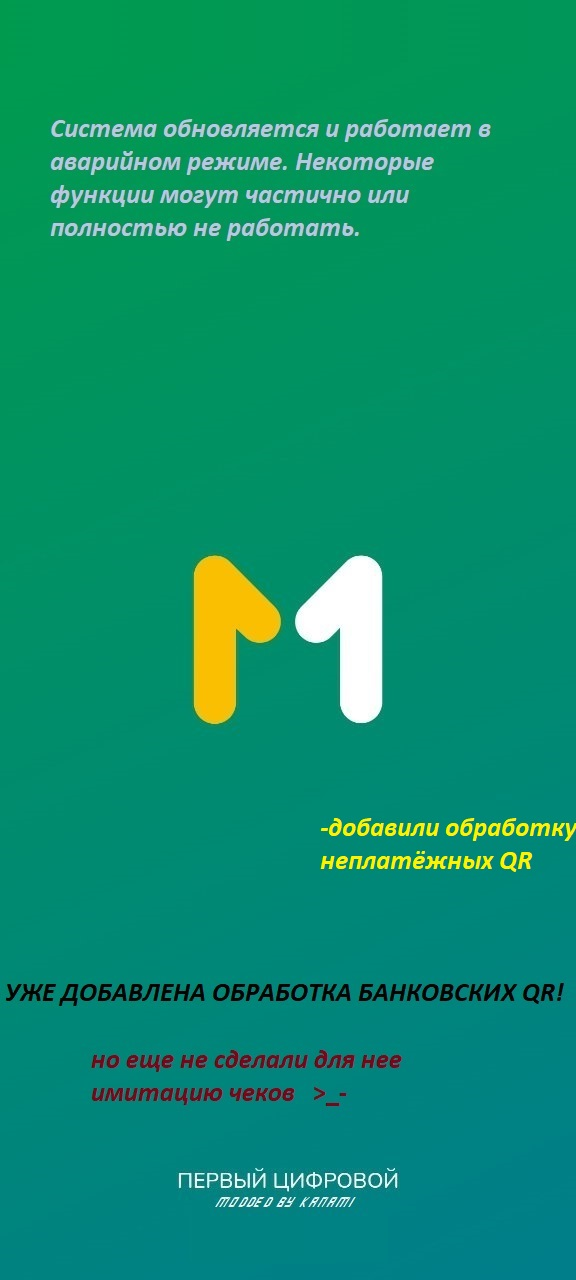
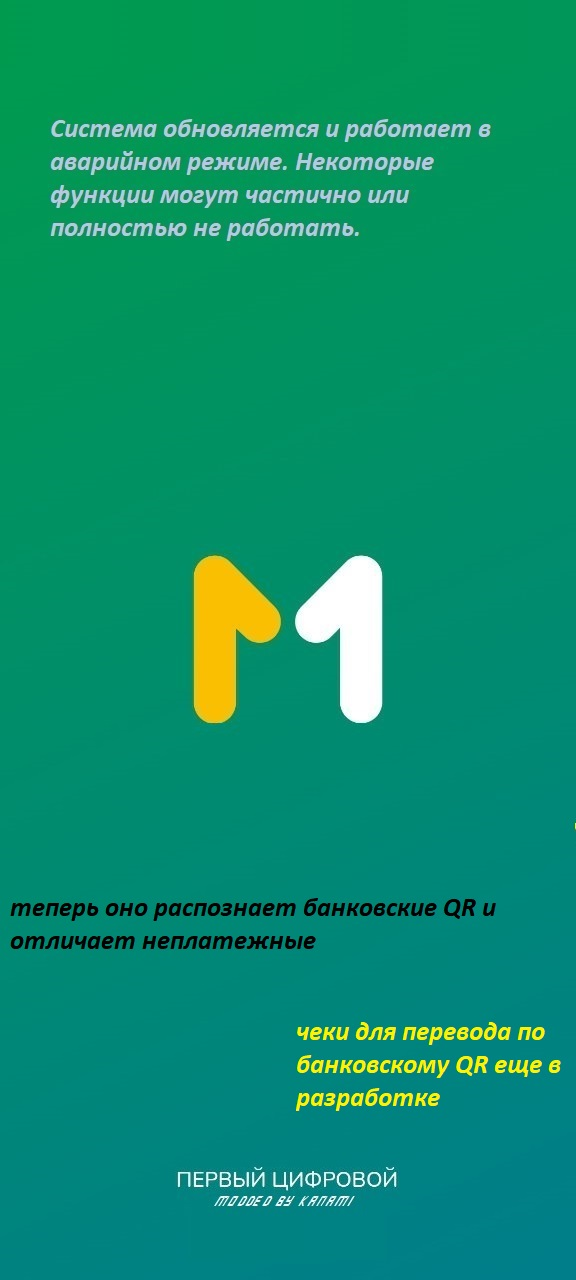
Added screens for bank credentials
But we need to input amount of money to be paid and need to cast the parsed credentils into output screen

Changed region(s): [[0.0, 0.625, 1.0, 0.875], [0.3125, 0.9062, 0.6875, 0.9688]]

diff --git a/index.html b/index.html
@@ -30,8 +30,8 @@
     </div>
 
     <!-- Экран 2: результат -->
-    <div id="screen2" class="screen">
-		<img src="history.jpg" class="screen2-bg">
+    <div id="TULPARsuccess" class="screen">
+		<img src="history.jpg" class="TULPARsuccess-bg">
 	    <div class="history-box">
 			<img src="success.png" alt="Успешно" class="success-image"> <!--фон с зеленой галочкой-->
 			<div class="dotted-line">	<!--пунктирный разделитель-->
@@ -63,6 +63,150 @@
 			<p class="final">Оплата услуг. Получатель: Оплата по QR Госуслуги. <span id=auto></span>/TULPAR/17.00 <span id=hexid></span> Сумма 17.00 KGS</p>	
 		</div>
     </div>
+	
+	<div id="odengi" class="screen">
+	<img src="history.jpg" class="TULPARsuccess-bg">
+	    <div class="history-box">
+			<img src="success.png" alt="Успешно" class="success-image"> <!--фон с зеленой галочкой-->
+			<div class="dotted-line">	<!--пунктирный разделитель-->
+			  <div></div><div></div><div></div><div></div>
+			  <div></div><div></div><div></div><div></div>
+			  <div></div><div></div><div></div><div></div>
+			  <div></div><div></div><div></div><div></div>
+			</div>
+
+			<div class=table-container>
+			
+			<table class="custom-table">
+			  <tbody>
+				<tr><td>Имя получателя</td><td>ОПЛАТА ПО ЕДИНОМУ QR (КЭШАУТ) МПЦ</td></tr>
+				<tr>
+				  <td style="white-space: normal;">Оплачено со счета</td>
+				  <td id="billnum" style="white-space: nowrap; width: 1%;"></td>	<!--небольшие извращения чтобы текст влезал в одну строку-->
+				</tr>
+
+				<tr><td>Дата операции</td><td id=datetime></td></tr>
+				<tr><td>Номер квитанции</td><td id=receipt></td></tr>
+				<tr><td>Поставщик услуги</td><td id=postavshik_2></td></tr>
+				<tr><td>Реквизит</td><td id=rekvizit_2></td></tr>
+				<tr><td>Комментарий</td><td id=comment_2></td></tr>
+				<tr><td>Получатель</td><td id=poluchatel_2></td></tr>
+				<tr><td>Идентификатор транзакции</td><td id=ID_2></td></tr>
+			  </tbody>
+			</table>
+			</div>
+			
+			<div class="dotted-line">
+			  <div></div><div></div><div></div><div></div>
+			  <div></div><div></div><div></div><div></div>
+			  <div></div><div></div><div></div><div></div>
+			  <div></div><div></div><div></div><div></div>
+			</div>
+			<p class="final">Оплата услуг. Получатель: Перевод по QR. 
+			<span id=rekv_1></span>
+			/
+			<span id=usl_1></span>
+			/
+			<span id=amount></span> <span id=hexid></span> 
+			Сумма <span id=amountAgain></span> KGS</p>	
+		</div>
+    </div>
+	
+
+
+	<div id="simbank" class="screen">
+	<img src="history.jpg" class="TULPARsuccess-bg">
+	    <div class="history-box">
+			<img src="success.png" alt="Успешно" class="success-image"> <!--фон с зеленой галочкой-->
+			<div class="dotted-line">	<!--пунктирный разделитель-->
+			  <div></div><div></div><div></div><div></div>
+			  <div></div><div></div><div></div><div></div>
+			  <div></div><div></div><div></div><div></div>
+			  <div></div><div></div><div></div><div></div>
+			</div>
+
+			<div class=table-container>
+
+			<table class="custom-table">
+			  <tbody>
+				<tr><td>Имя получателя</td><td>ОПЛАТА ПО ЕДИНОМУ QR (КЭШАУТ) МПЦ</td></tr>
+				<tr>
+				  <td style="white-space: normal;">Оплачено со счета</td>
+				  <td id="billnum" style="white-space: nowrap; width: 1%;"></td>	<!--небольшие извращения чтобы текст влезал в одну строку-->
+				</tr>
+
+				<tr><td>Дата операции</td><td id=datetime></td></tr>
+				<tr><td>Номер квитанции</td><td id=receipt></td></tr>
+				<tr><td>Поставщик услуги</td><td id=postavshik_2></td></tr>
+				<tr><td>Реквизит</td><td id=rekvizit_2></td></tr>
+				<tr><td>Получатель</td><td id=poluchatel_2></td></tr>
+				<tr><td>Идентификатор транзакции</td><td id=ID_2></td></tr>
+			  </tbody>
+			</table>
+			</div>
+			
+			<div class="dotted-line">
+			  <div></div><div></div><div></div><div></div>
+			  <div></div><div></div><div></div><div></div>
+			  <div></div><div></div><div></div><div></div>
+			  <div></div><div></div><div></div><div></div>
+			</div>
+			<p class="final">Оплата услуг. Получатель: Перевод по QR. 
+			<span id=rekv_1></span>
+			/
+			<span id=usl_1></span>
+			/
+			<span id=amount></span> <span id=hexid></span> 
+			Сумма <span id=amountAgain></span> KGS</p>	
+		</div>
+    </div>
+	
+	
+	
+	
+	<div id="mbank" class="screen">
+	<img src="history.jpg" class="TULPARsuccess-bg">
+	    <div class="history-box">
+			<img src="success.png" alt="Успешно" class="success-image"> <!--фон с зеленой галочкой-->
+			<div class="dotted-line">	<!--пунктирный разделитель-->
+			  <div></div><div></div><div></div><div></div>
+			  <div></div><div></div><div></div><div></div>
+			  <div></div><div></div><div></div><div></div>
+			  <div></div><div></div><div></div><div></div>
+			</div>
+
+			<div class=table-container>
+
+			<table class="custom-table">
+			  <tbody>
+				<tr><td>Имя получателя</td><td id=usl_1></td></tr>
+				<tr>
+				  <td style="white-space: normal;">Оплачено со счета</td>
+				  <td id="billnum" style="white-space: nowrap; width: 1%;"></td>	<!--небольшие извращения чтобы текст влезал в одну строку-->
+				</tr>
+
+				<tr><td>Дата операции</td><td id=datetime></td></tr>
+				<tr><td>Номер квитанции</td><td id=receipt></td></tr>
+			  </tbody>
+			</table>
+			</div>
+			<div class="dotted-line">
+			  <div></div><div></div><div></div><div></div>
+			  <div></div><div></div><div></div><div></div>
+			  <div></div><div></div><div></div><div></div>
+			  <div></div><div></div><div></div><div></div>
+			</div>
+			<p class="final">Оплата услуг. Получатель: Перевод по QR. 
+			<span id=rekv_1></span>
+			/
+			<span id=usl_1></span>
+			/
+			<span id=amount></span> <span id=hexid></span> 
+			Сумма <span id=amountAgain></span> KGS</p>	
+		</div>
+    </div>
+
+	
 	<!-- Экран вывода несовмесимого QR -->
 	<div id="parseError" class="screen">
 		<img src="history.jpg" class="error-bg">

diff --git a/styles.css b/styles.css
@@ -60,13 +60,26 @@ body {
     object-fit: cover;
 }
 
-#screen2 {
+/* Общий контейнер */
+#TULPARsuccess,
+#odengi,
+#simbank,
+#mbank {
     background-color: black;
     position: relative;
     overflow: hidden;
+
+    display: flex;
+    justify-content: center;
+    align-items: center;
+    flex-direction: column;
 }
 
-#screen2 .screen2-bg {
+/* Фон */
+#TULPARsuccess .TULPARsuccess-bg,
+#odengi .TULPARsuccess-bg,
+#simbank .TULPARsuccess-bg,
+#mbank .TULPARsuccess-bg {
     position: absolute;
     top: 50%;
     left: 50%;
@@ -77,20 +90,15 @@ body {
     z-index: 0;
 }
 
-#screen2 > *:not(.screen2-bg) {
+/* Контент поверх фона */
+#TULPARsuccess > *:not(.TULPARsuccess-bg),
+#odengi > *:not(.TULPARsuccess-bg),
+#simbank > *:not(.TULPARsuccess-bg),
+#mbank > *:not(.TULPARsuccess-bg) {
     position: relative;
     z-index: 1;
 }
-#screen2 {
-    background-color: black;
-    position: relative;
-    overflow: hidden;
 
-    display: flex;
-    justify-content: center;
-    align-items: center;
-    flex-direction: column;
-}
 #parseError {
     background-color: black;
     position: relative;
@@ -115,24 +123,24 @@ body {
 .errMsgBox {
     display: flex;
     flex-direction: column;
-    align-items: flex-start; /* Выравнивание по левому краю */
+    align-items: flex-start;
     text-align: left;
-
     background-color: #131313;
-	color:#606060;	
+    color: #606060;
     border-radius: 20px;
-    height: 100px;
-    width: 250px;
+    height: 115px;
+    width: 280px;
     box-sizing: border-box;
-    padding: 15px;
+    padding: 15px 20px 20px 25px;
     position: relative;
     z-index: 2;
 }
 
+
 .ErrBtn {
     position: absolute;
-    bottom: 10px;
-    right: 15px;
+    bottom: 15px;
+    right: 20px;
 
     font-size: 14px;
     color: #088840;
@@ -217,6 +225,17 @@ body {
   text-align: right;   /* Правый столбец - по правому краю */
 }
 
+.table-container {
+  max-height: 40vh;
+  overflow-y: auto;
+  width: 100%;
+  -ms-overflow-style: none;  /* IE и Edge */
+  scrollbar-width: none;  /* Firefox */
+}
+
+.table-container::-webkit-scrollbar {
+  display: none;
+}
 
 .final {
 	text-align: left;

diff --git a/parseQRCode.js b/parseQRCode.js
@@ -37,7 +37,7 @@ function parseQRCode(decodedText) {
 
         const el = document.getElementById("auto");   //прописываем код транспорта в чек
         if (el) el.textContent = transportNumber + "/" + transportNumber; //если мы его туда прописали, то дублируем его через слэш (чтоб по канону смотрелось)
-		showScreen('screen2');
+		showScreen('TULPARsuccess');
 	return;
 
     } else {
@@ -116,9 +116,25 @@ function parseQRCode(decodedText) {
         let comment_2 = chelovek;
         let poluchatel_2 = chelovek;
         let ID_2 = identifikatorTranzaksii;
+		
 
         console.log(codeProvider, rekvizit_1, usluga_1, usluga_2,
                     postavshik_2, rekvizit_2, comment_2, poluchatel_2, ID_2);
+					
+		if (codeProvider === 'О!Деньги') {
+			console.log("Загружаю экран odengi")
+			showScreen("odengi")
+		}
+		
+		if (codeProvider === 'Simbank') {
+			console.log("Загружаю экран simbank")
+			showScreen("simbank")
+		}
+		
+		if (codeProvider === 'MBank') {
+			console.log("Загружаю экран mbank")
+			showScreen("mbank")
+		}
     }
 }
 
